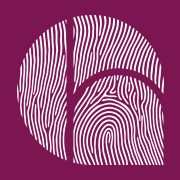
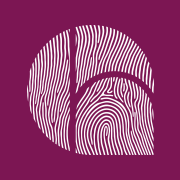
Deploying to main from @ Humanea-veterinaire/AnimalNews_source@e25c7523d5fff41d45d8567e35b0ba8dd9c98b98 🚀

diff --git a/404.html b/404.html
@@ -3,9 +3,9 @@
 
 <head>
   <meta charset="UTF-8" />
-  <link rel="icon" type="image/png" href="humanea-icon.png" />
-  <link rel="apple-touch-icon" href="apple-touch-icon.png" />
-  <link rel="manifest" href="manifest.json" />
+  <link rel="icon" type="image/png" href="/AnimalNews/icon-192.png" />
+  <link rel="apple-touch-icon" href="/AnimalNews/apple-touch-icon.png" />
+  <link rel="manifest" href="/AnimalNews/manifest.json" />
   <meta name="viewport" content="width=device-width, initial-scale=1.0, viewport-fit=cover" />
   <meta name="theme-color" content="#f9fafb" />
   <meta name="mobile-web-app-capable" content="yes" />

diff --git a/index.html b/index.html
@@ -3,9 +3,9 @@
 
 <head>
   <meta charset="UTF-8" />
-  <link rel="icon" type="image/png" href="humanea-icon.png" />
-  <link rel="apple-touch-icon" href="apple-touch-icon.png" />
-  <link rel="manifest" href="manifest.json" />
+  <link rel="icon" type="image/png" href="/AnimalNews/icon-192.png" />
+  <link rel="apple-touch-icon" href="/AnimalNews/apple-touch-icon.png" />
+  <link rel="manifest" href="/AnimalNews/manifest.json" />
   <meta name="viewport" content="width=device-width, initial-scale=1.0, viewport-fit=cover" />
   <meta name="theme-color" content="#f9fafb" />
   <meta name="mobile-web-app-capable" content="yes" />